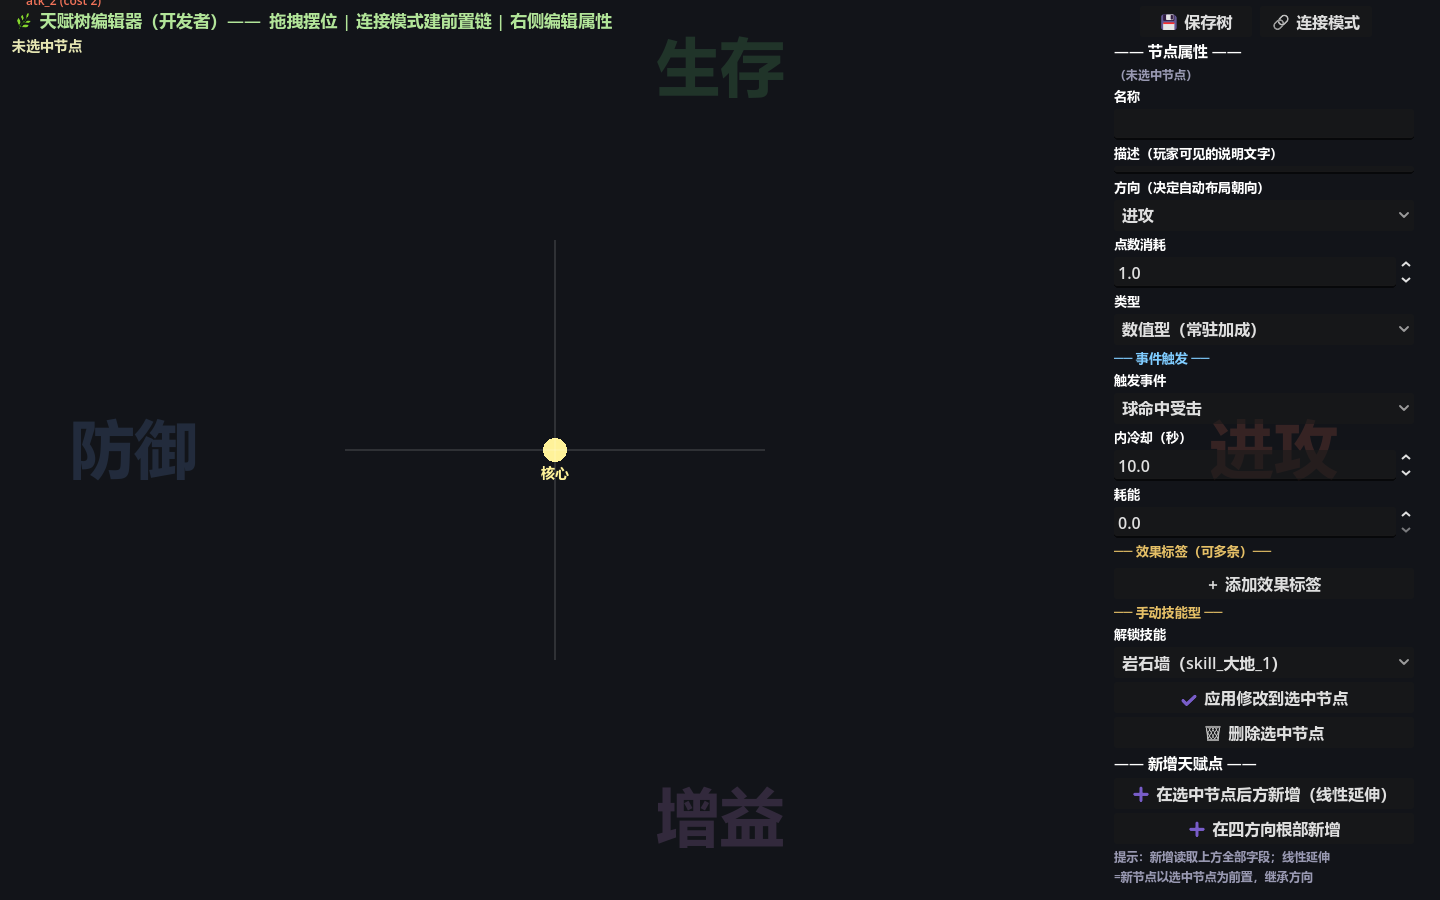
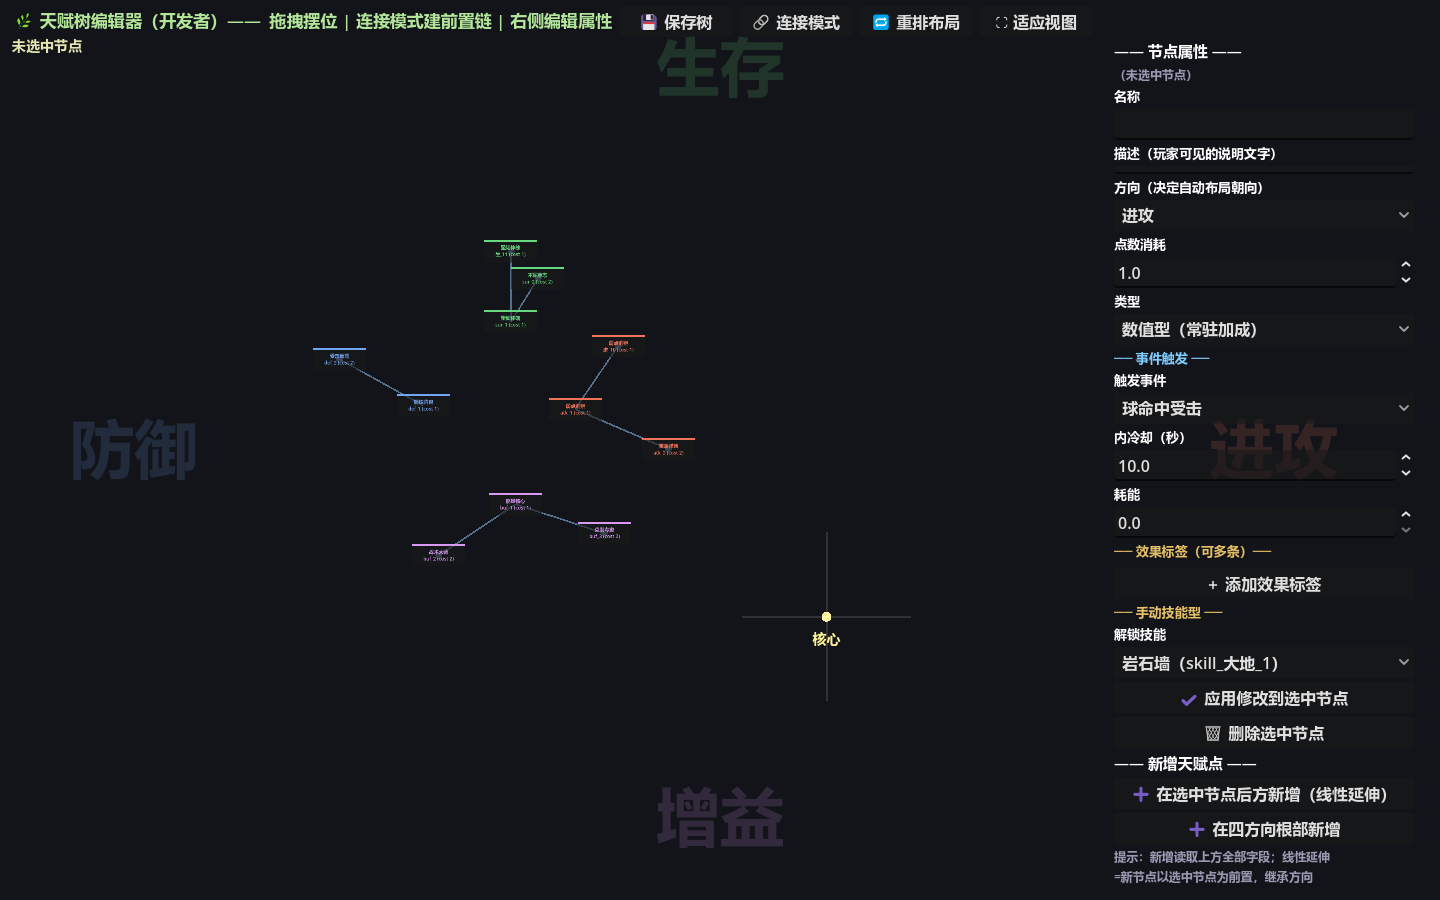
fix: 天赋树编辑器交互重构（画布级拖拽+自动适配视图）
- 拖拽改为画布级统一输入+命中测试（修缩放后卡片拖不动）
- 打开自动适应视图（包围盒全节点+核心，修复未校准观感）
- 新增 🔁重排布局（按requires结构重算，一键清理散乱位置）/ ⛶适应视图 按钮
- 修函数名不一致（_fit_view vs _on_fit_view）

diff --git a/工作日志/2026-09-11.md b/工作日志/2026-09-11.md
@@ -377,3 +377,10 @@
 - 踩坑：JSON.stringify(Vector2)→字符串"(x, y)"需解析（_pos_to_vec 三形态兼容）；Godot4 严格类型推断需显式声明
 
 **主人手测项**：中键/右键拖动平移、滚轮缩放、拖节点摆位后保存重开验证
+
+### 38. 编辑器交互重构（主人反馈"未校准+鼠标不能拖拉"）
+
+- **拖拽重构**：从卡片级 gui_input 改为**画布级统一输入+命中测试**（左键点卡片拖动/选中，中右键平移，滚轮缩放）——不再依赖按钮自身事件捕获
+- **打开自动适应视图**：包围盒全部节点+核心，自动算缩放居中（"未校准"根因=旧拖拽位置散乱+视野没对准）
+- **新增两键**：「🔁 重排布局」按 requires 结构重算全部位置（一键清理拖乱的树）、「⛶ 适应视图」随时回到全览
+- 坑：函数名不一致（调 _fit_view 定义是 _on_fit_view）——parse 报"未找到"其实是名字错
